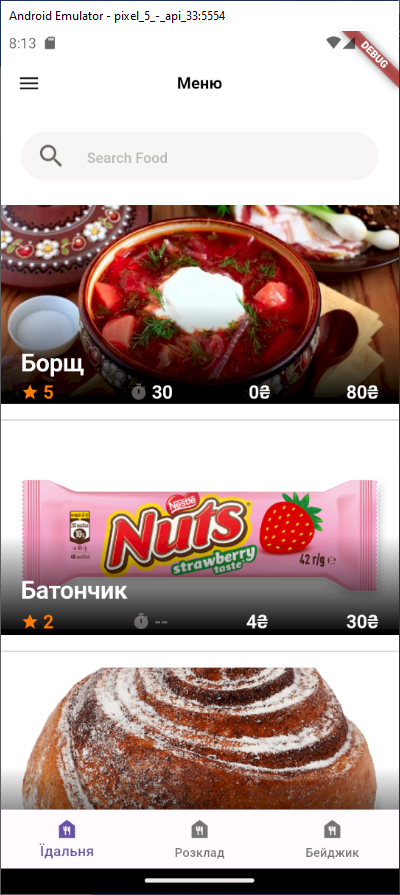
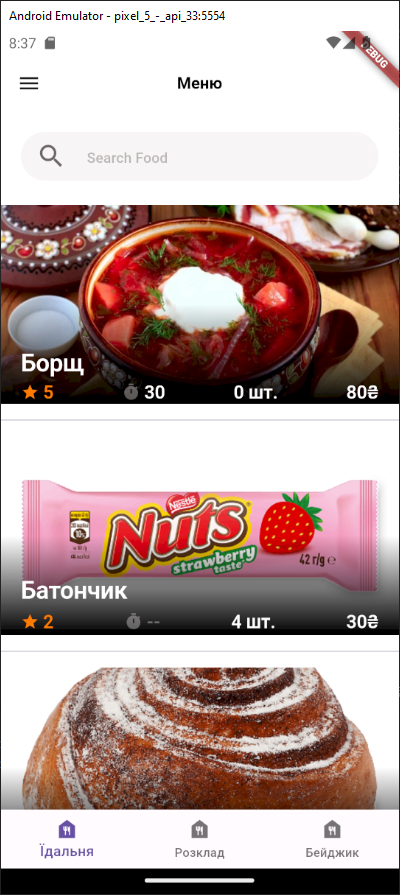
screen update

diff --git a/lib/features/eatery_menu/widgets/dishes_list.dart b/lib/features/eatery_menu/widgets/dishes_list.dart
@@ -104,7 +104,7 @@ class DishesList extends StatelessWidget {
                             children: [
                               Text(
                                 dishe.number.toString() +
-                                    AppStrings.priceSymbol,
+                                    AppStrings.numberSymbol,
                                 textAlign: TextAlign.center,
                                 style: theme.displayMedium,
                               ),

diff --git a/lib/core/constants/app_strings.dart b/lib/core/constants/app_strings.dart
@@ -8,7 +8,7 @@ class AppStrings {
 
   static const String menuTitle = 'Меню';
   static const String priceSymbol = '₴';
-  static const String numberSymbol = 'Шт.';
+  static const String numberSymbol = ' шт.';
   static const String checkEmpty = '0';
   static const String stringEmpty = '--';
 
